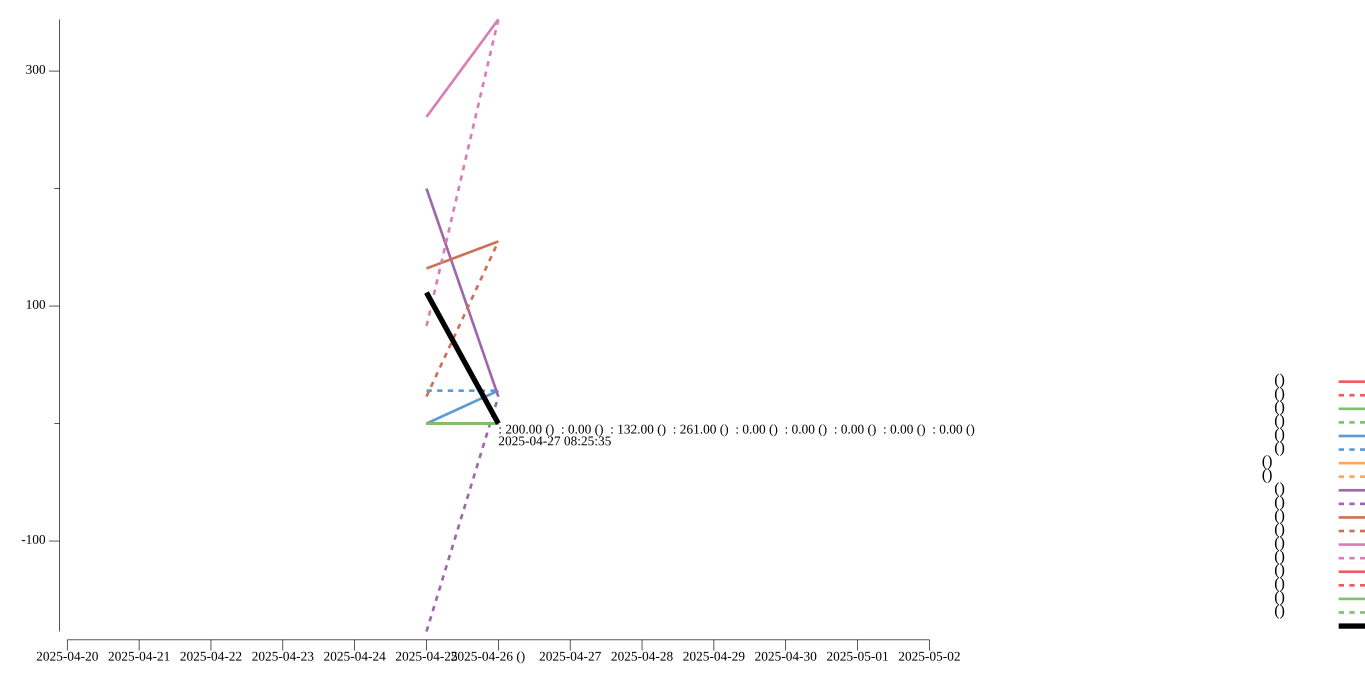
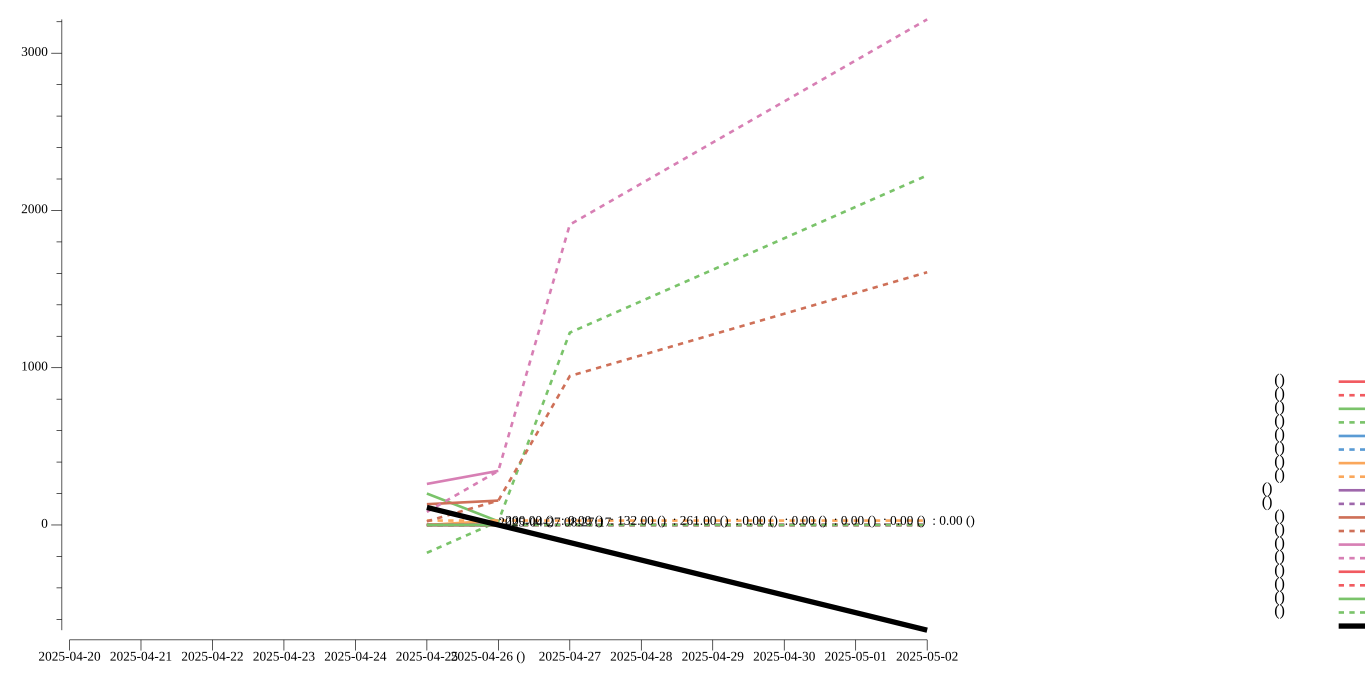
자동 집중도 데이터: 2025-04-26

diff --git a/internal/analyzer/plot.go b/internal/analyzer/plot.go
@@ -226,20 +226,23 @@ func DrawFocusTrends(points, regressionLines map[string]plotter.XYs, evalText, w
 			}
 			dateStr := data[i].Date
 			if x, ok := dateToX[dateStr]; ok {
-				newPts = append(newPts, plotter.XY{X: x, Y: pt.Y})
+				// 미래(오늘 이후)는 점을 그리지 않음
+				dateTime, _ := time.Parse("2006-01-02", dateStr)
+				if !dateTime.After(today) {
+					newPts = append(newPts, plotter.XY{X: x, Y: pt.Y})
+				}
 			}
 		}
-		if len(newPts) == 0 {
-			continue
+		if len(newPts) > 0 {
+			l, err := plotter.NewLine(newPts)
+			if err != nil {
+				return nil, err
+			}
+			l.Color = colors[colorIdx%len(colors)]
+			l.Width = vg.Points(2)
+			p.Add(l)
+			p.Legend.Add(cat+"(실제)", l)
 		}
-		l, err := plotter.NewLine(newPts)
-		if err != nil {
-			return nil, err
-		}
-		l.Color = colors[colorIdx%len(colors)]
-		l.Width = vg.Points(2)
-		p.Add(l)
-		p.Legend.Add(cat+"(실제)", l)
 
 		if regPts, ok := regressionLines[cat]; ok {
 			newRegPts := make(plotter.XYs, 0, len(regPts))
@@ -250,6 +253,24 @@ func DrawFocusTrends(points, regressionLines map[string]plotter.XYs, evalText, w
 				dateStr := data[i].Date
 				if x, ok := dateToX[dateStr]; ok {
 					newRegPts = append(newRegPts, plotter.XY{X: x, Y: pt.Y})
+				}
+			}
+			// 미래 구간(오늘 이후) 회귀선 예측 추가
+			lastY := 0.0
+			if len(regPts) > 0 {
+				lastY = regPts[len(regPts)-1].Y
+			}
+			for i := 7; i < 13; i++ { // x=7~12: 미래
+				dateStr := dates[i]
+				if x, ok := dateToX[dateStr]; ok {
+					// 회귀선의 마지막 기울기와 절편을 이용해 예측값 사용
+					if len(regPts) > 1 {
+						delta := regPts[1].Y - regPts[0].Y
+						predY := regPts[len(regPts)-1].Y + delta*float64(i-len(regPts)+1)
+						newRegPts = append(newRegPts, plotter.XY{X: x, Y: predY})
+					} else {
+						newRegPts = append(newRegPts, plotter.XY{X: x, Y: lastY})
+					}
 				}
 			}
 			if len(newRegPts) > 0 {
@@ -276,10 +297,26 @@ func DrawFocusTrends(points, regressionLines map[string]plotter.XYs, evalText, w
 			}
 			dateStr := data[i].Date
 			if x, ok := dateToX[dateStr]; ok {
-				newAgg = append(newAgg, plotter.XY{X: x, Y: pt.Y})
+				// 미래(오늘 이후)는 점을 그리지 않음
+				dateTime, _ := time.Parse("2006-01-02", dateStr)
+				if !dateTime.After(today) {
+					newAgg = append(newAgg, plotter.XY{X: x, Y: pt.Y})
+				}
 			}
 		}
+		// 미래 구간(오늘 이후) 회귀선 예측 추가 (aggregate는 선형 보간)
 		if len(newAgg) > 0 {
+			lastY := newAgg[len(newAgg)-1].Y
+			var delta float64
+			if len(newAgg) > 1 {
+				delta = newAgg[len(newAgg)-1].Y - newAgg[len(newAgg)-2].Y
+			}
+			for i := 7; i < 13; i++ { // x=7~12: 미래
+				if x, ok := dateToX[dates[i]]; ok {
+					predY := lastY + delta*float64(i-6)
+					newAgg = append(newAgg, plotter.XY{X: x, Y: predY})
+				}
+			}
 			aggLine, err := plotter.NewLine(newAgg)
 			if err != nil {
 				return nil, err
